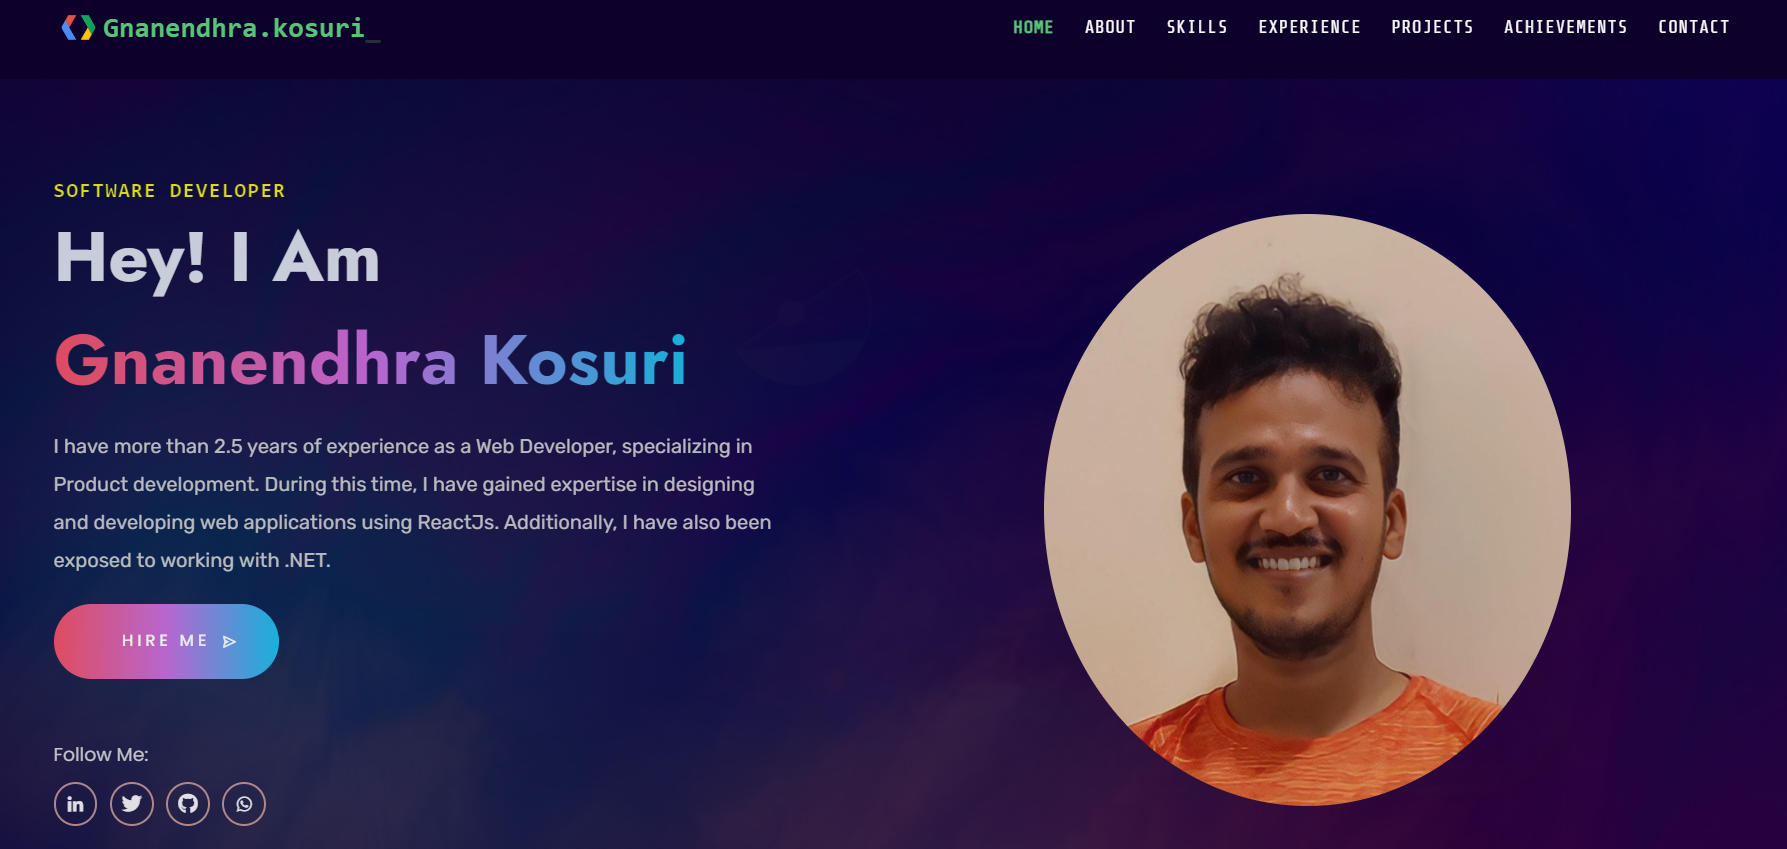
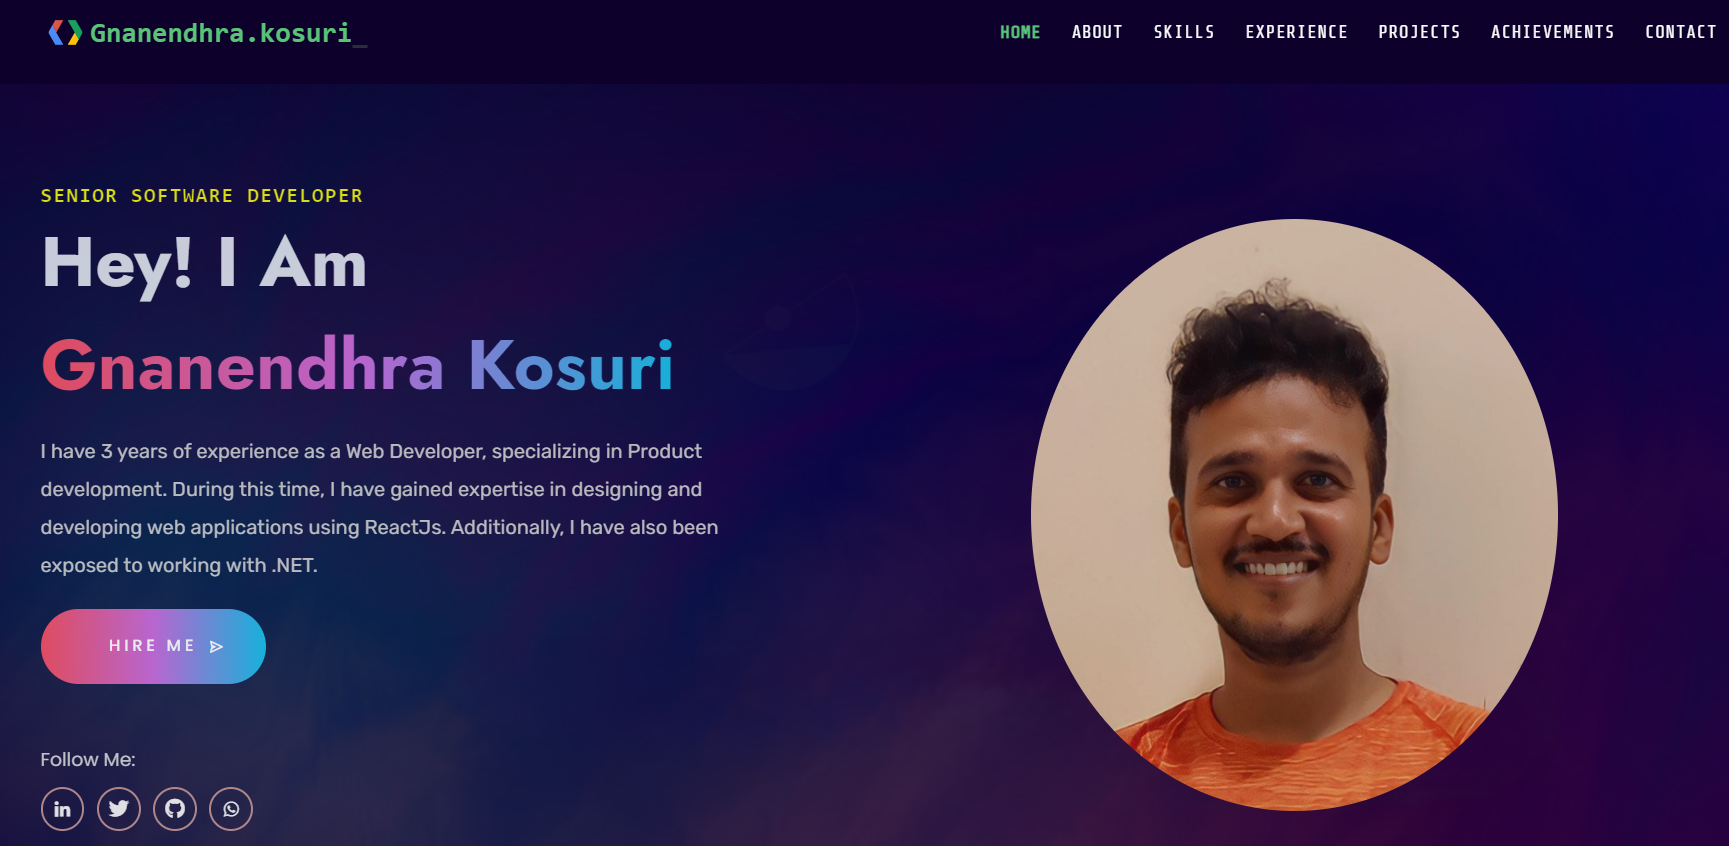
Updated the experience

diff --git a/src/data/home.js b/src/data/home.js
@@ -4,7 +4,7 @@ export const homeDetails = [
         "greeting": "Hello",
         "name": "Gnanendhra Kosuri",
         "job_title": "Senior Software Developer",
-        "par_inro": "I have almost 3 years of experience as a Web Developer, specializing in Product development. During this time, I have gained expertise in designing and developing web applications using ReactJs. Additionally, I have also been exposed to working with .NET.",
+        "par_inro": "I have 3 years of experience as a Web Developer, specializing in Product development. During this time, I have gained expertise in designing and developing web applications using ReactJs. Additionally, I have also been exposed to working with .NET.",
         "avatar_img": "1iyVyaGyw5HniEugxd1-qZ54rpFpn2UTc",
         "hireMe_link": "gnanendhrakosuri@gmail.com",
         "cv_link": ''
